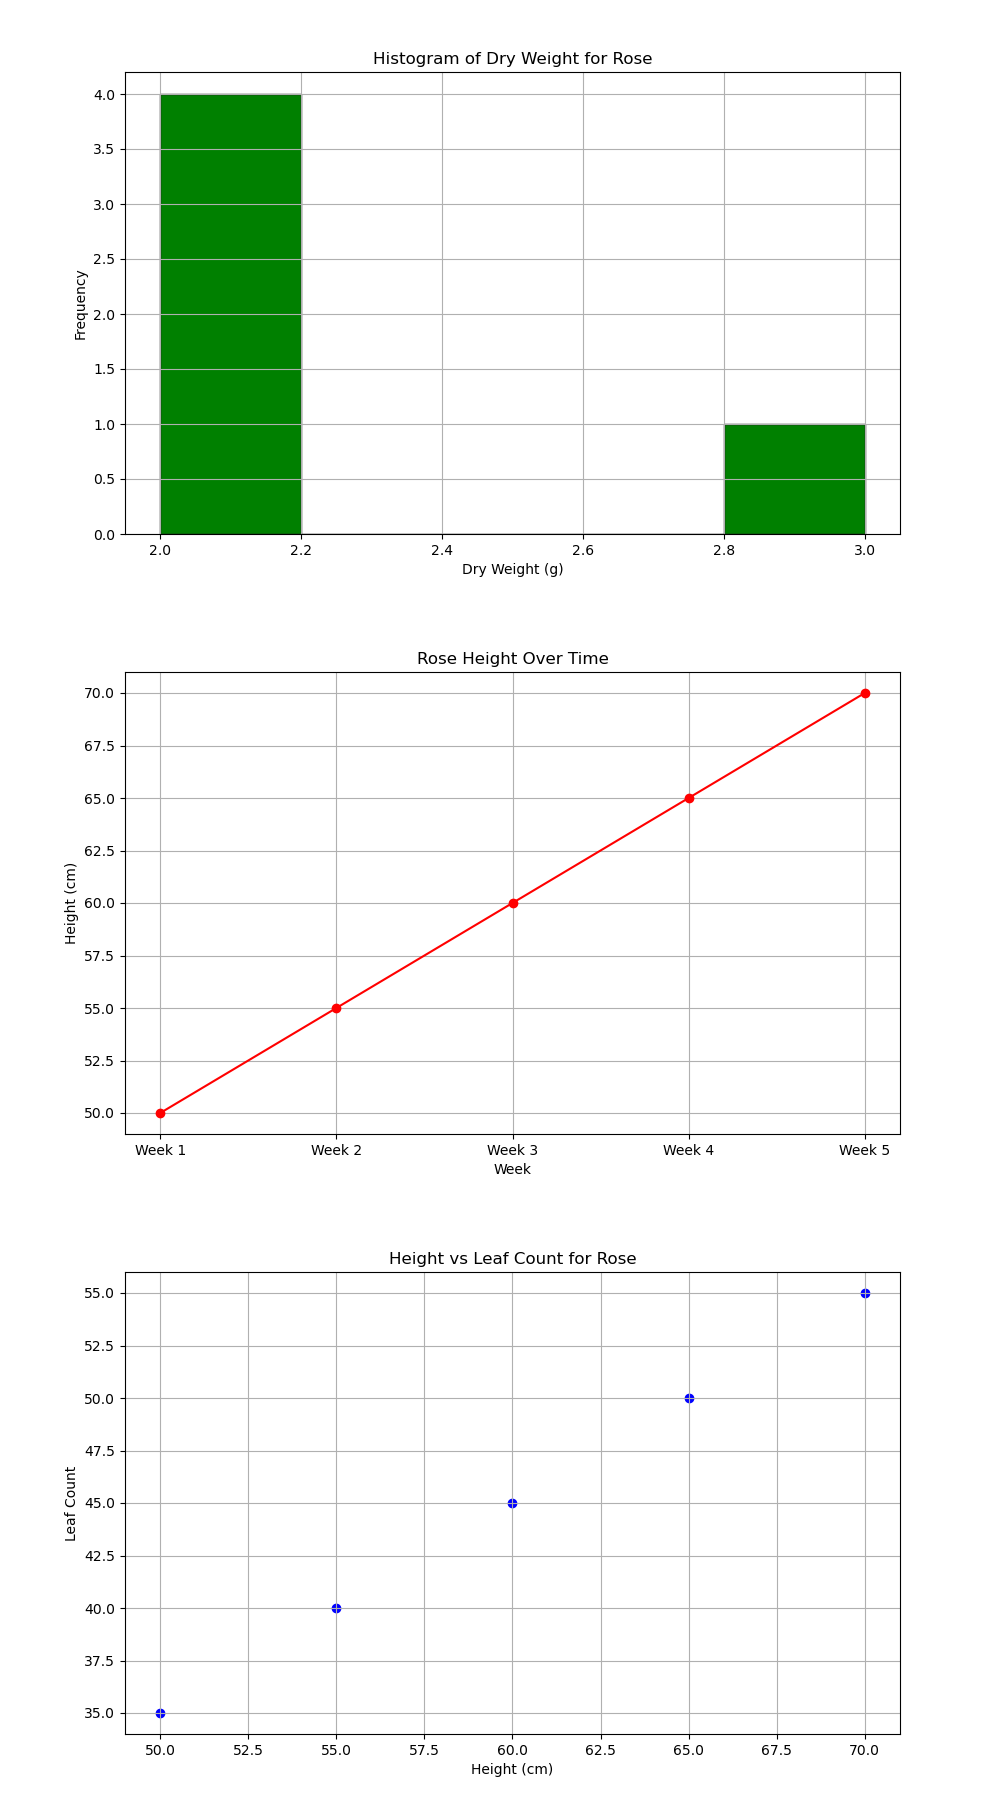
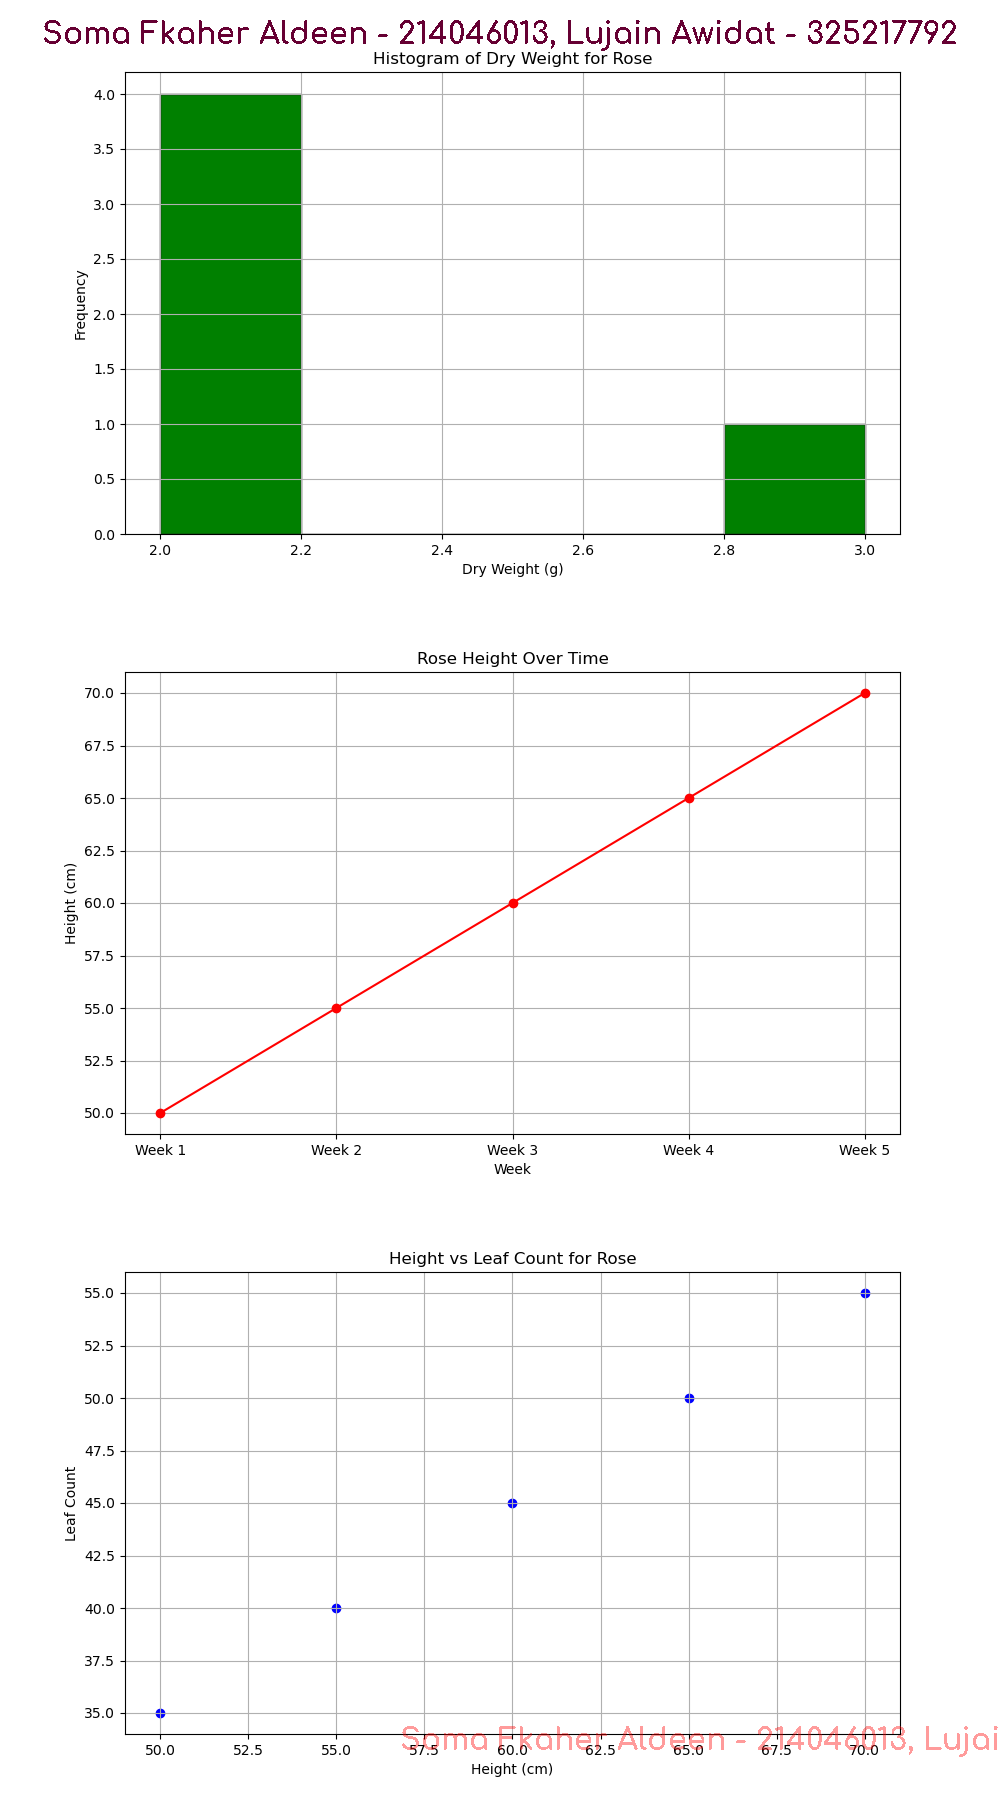
Question 5 - DONE - writing on pictures

diff --git a/Work/Q5/plant_analyzer.py b/Work/Q5/plant_analyzer.py
@@ -1,0 +1,69 @@
+import argparse
+import matplotlib.pyplot as plt
+
+# Argument parsing
+args_parser = argparse.ArgumentParser(description="Plot plant growth data")
+# The '--plant' argument is a required string argument that specifies the plant name
+args_parser.add_argument("--plant", type=str, required=True)
+
+# Defines a required command-line argument '--height' that accepts a list of float values
+# The nargs="+" argument allows the user to input multiple values for the same argument
+# The required=True argument ensures that the '--height' argument is mandatory
+# The type=float argument specifies that the values should be converted to float
+args_parser.add_argument("--height", type=float, nargs="+", required=True)
+
+# The same logic applies to the '--leaf_count' and '--dry_weight' arguments
+args_parser.add_argument("--leaf_count", type=int, nargs="+", required=True)
+args_parser.add_argument("--dry_weight", type=float, nargs="+", required=True)
+
+# Parses the command-line arguments provided by the user
+args = args_parser.parse_args()
+
+# Ensure all lists have the same number of values
+if not (len(args.height) == len(args.leaf_count) == len(args.dry_weight)):
+    raise ValueError("Error: All input lists must have the same number of values")
+
+
+
+# Print plant data
+print(f"Plant: {args.plant}")
+print(f"Height data: {args.height} cm")
+print(f"Leaf count data: {args.leaf_count}")
+print(f"Dry weight data: {args.dry_weight} g")
+
+# Scatter Plot - Height vs Leaf Count
+plt.figure(figsize=(10, 6))
+plt.scatter(args.height, args.leaf_count, color='b')
+plt.title(f'Height vs Leaf Count for {args.plant}')
+plt.xlabel('Height (cm)')
+plt.ylabel('Leaf Count')
+plt.grid(True)
+plt.savefig(f"{args.plant}_scatter.png")
+plt.close()  # Close the plot to prepare for the next one
+
+# Histogram - Distribution of Dry Weight
+plt.figure(figsize=(10, 6))
+plt.hist(args.dry_weight, bins=5, color='g', edgecolor='black')
+plt.title(f'Histogram of Dry Weight for {args.plant}')
+plt.xlabel('Dry Weight (g)')
+plt.ylabel('Frequency')
+plt.grid(True)
+plt.savefig(f"{args.plant}_histogram.png")
+plt.close()  # Close the plot to prepare for the next one
+
+# Line Plot - Plant Height Over Time
+weeks = [f"Week {i+1}" for i in range(len(args.height))]  # Generate week labels dynamically
+plt.figure(figsize=(10, 6))
+plt.plot(weeks, args.height, marker='o', color='r')
+plt.title(f'{args.plant} Height Over Time')
+plt.xlabel('Week')
+plt.ylabel('Height (cm)')
+plt.grid(True)
+plt.savefig(f"{args.plant}_line_plot.png")
+plt.close()  
+
+# Output confirmation
+print(f"Generated plots for {args.plant}:")
+print(f"Scatter plot saved as {args.plant}_scatter.png")
+print(f"Histogram saved as {args.plant}_histogram.png")
+print(f"Line plot saved as {args.plant}_line_plot.png")

diff --git a/Work/Q5/WatermarkApp.java b/Work/Q5/WatermarkApp.java
@@ -1,0 +1,57 @@
+import java.awt.*;
+import java.awt.image.BufferedImage;
+import java.io.File;
+import java.io.IOException;
+import javax.imageio.ImageIO;
+
+public class WatermarkApp {
+    public static void main(String[] args) {
+        if (args.length != 1) {
+            System.out.println("Usage: java WatermarkApp <images_directory>");
+            return;
+        }
+
+        String imagesDir = args[0];
+        File folder = new File(imagesDir);
+        File[] images = folder.listFiles((dir, name) -> name.endsWith(".png"));
+
+        if (images == null || images.length == 0) {
+            System.out.println("No images found in directory: " + imagesDir);
+            return;
+        }
+
+        for (File imageFile : images) {
+            try {
+                BufferedImage image = ImageIO.read(imageFile);
+                Graphics2D g2d = image.createGraphics();
+
+                // Set font and color
+                Font font = new Font("Arial", Font.BOLD, 30);
+                g2d.setFont(font);
+                g2d.setColor(new Color(102, 0, 51)); // Red with transparency
+
+                // Watermark text
+                String watermark = "Soma Fkaher Aldeen - 214046013, Lujain Awidat - 325217792";
+
+                // Get text size dynamically
+                FontMetrics fontMetrics = g2d.getFontMetrics();
+                int textWidth = fontMetrics.stringWidth(watermark);
+                int textHeight = fontMetrics.getHeight();
+
+                // Position the watermark at the top-center
+                int x = (image.getWidth() - textWidth) / 2; // Center horizontally
+                int y = textHeight + 10; // Add padding from top
+
+                g2d.drawString(watermark, x, y);
+                g2d.dispose();
+
+                ImageIO.write(image, "png", imageFile);
+                System.out.println("Watermark added to: " + imageFile.getName());
+
+            } catch (IOException e) {
+                System.out.println("Error processing image: " + imageFile.getName());
+                e.printStackTrace();
+            }
+        }
+    }
+}
